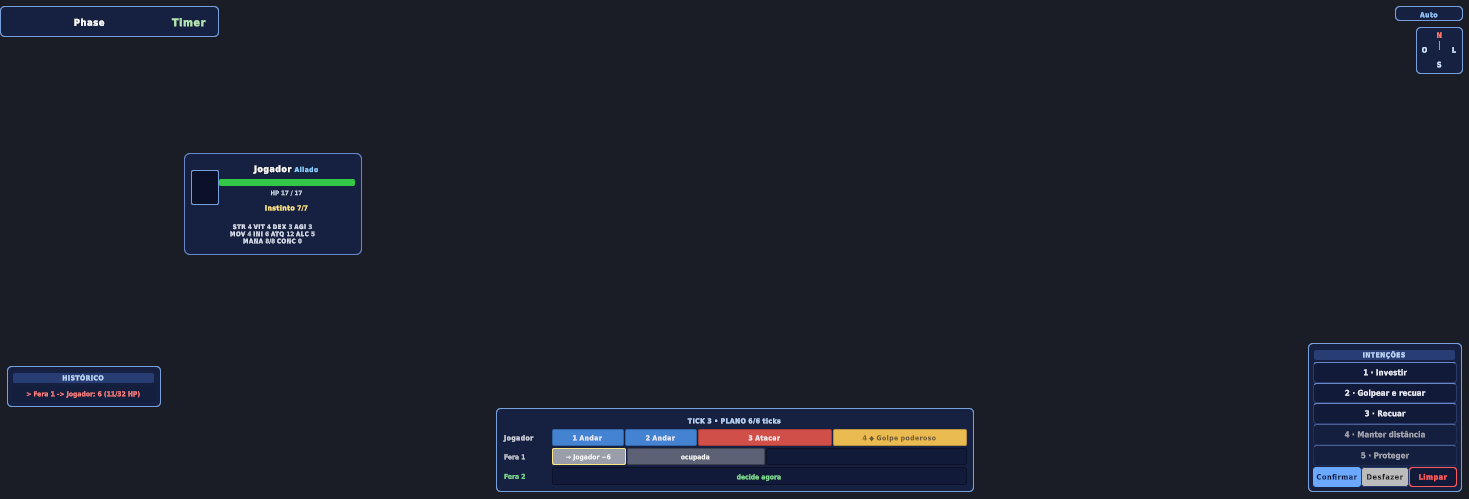
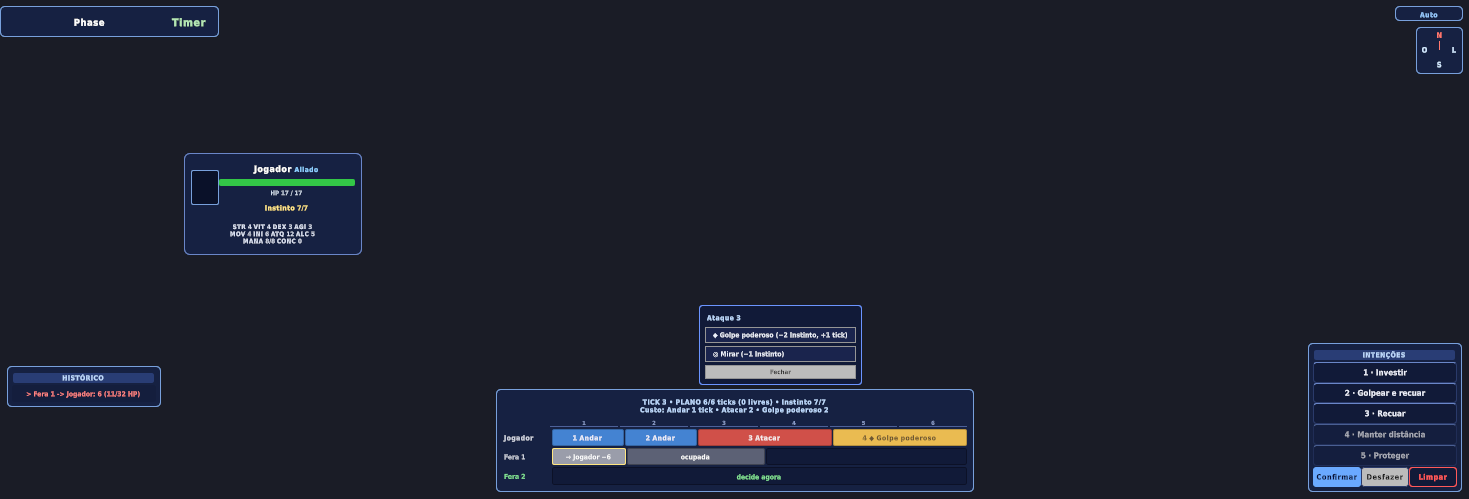
feat(hud): incrementar clicando no bloco de ataque; capacidade da fila explícita
- clicar num bloco de ataque do plano abre um menu com Golpe poderoso e Mirar
  (liga/desliga, com custo em Instinto e ticks); sem tick livre ou sem
  Instinto, a barra explica o motivo
- na janela entre ticks, o bloco do ataque seguinte fica clicável com o mesmo
  menu (os pedidos seguem o mesmo caminho em buffer pela rede)
- cabeçalho: PLANO n/6 ticks (x livres), Instinto atual e o custo de cada
  ação; régua 1..6 sobre as faixas; espaço livre aparece como '+ n livres'

Changed region(s): [[0.337, 0.6313, 0.6739, 0.8717]]

diff --git a/Assets/Scripts/BattleHUD.cs b/Assets/Scripts/BattleHUD.cs
@@ -475,6 +475,85 @@ namespace PangeaSkirmish
         private static readonly System.Text.RegularExpressions.Regex RichTag =
             new System.Text.RegularExpressions.Regex("<[^>]+>");
 
+        private string _headBase, _headCosts, _planNote; private float _planNoteUntil;
+        private void RefreshHeader()
+        {
+            if (_ticksRowsHeader == null) return;
+            string t = _headBase ?? "";
+            if (!string.IsNullOrEmpty(_headCosts)) t += "\n" + _headCosts;
+            bool note = !string.IsNullOrEmpty(_planNote) && Time.unscaledTime < _planNoteUntil;
+            if (note) t += "\n" + _planNote;
+            _ticksRowsHeader.text = t;
+            _ticksRowsHeader.style.color = note ? new Color(1f, 0.82f, 0.45f) : new Color(0.74f, 0.85f, 1f);
+        }
+
+        /// <summary>Aviso curto no cabeçalho da barra (ex.: sem tick livre para o incremento).</summary>
+        public void ShowPlanNote(string text)
+        {
+            _planNote = text; _planNoteUntil = Time.unscaledTime + 3f;
+            RefreshHeader();
+        }
+
+        // ── Incremento clicando nos blocos de ataque (plano e janela entre ticks) ──
+        public Action<int, int> OnIncrementPick;           // (índice no plano, tipo: 0 golpe poderoso, 1 mirar)
+        private Unit _windowUnit; private Action<int> _windowPick;
+        private VisualElement _incPopup;
+
+        /// <summary>Abre/fecha o modo "janela entre ticks": o bloco do ataque seguinte vira clicável.</summary>
+        public void SetIncrementWindow(Unit u, Action<int> onPick)
+        {
+            _windowUnit = u; _windowPick = onPick;
+            CloseIncrementPopup();
+            RebuildTickRows();
+        }
+
+        private void CloseIncrementPopup()
+        {
+            if (_incPopup != null) { _incPopup.RemoveFromHierarchy(); _incPopup = null; }
+        }
+
+        private void OpenIncrementPopup(VisualElement anchor, string title, bool powerOn, bool aimOn,
+                                        bool powerEnabled, bool aimEnabled, Action<int> pick)
+        {
+            CloseIncrementPopup();
+            if (_ticksBar == null) return;
+            var pop = new VisualElement();
+            var ps = pop.style;
+            ps.position = Position.Absolute;
+            ps.backgroundColor = new Color(0.07f, 0.10f, 0.22f, 0.98f);
+            ps.paddingLeft = ps.paddingRight = 8; ps.paddingTop = ps.paddingBottom = 6;
+            ps.borderTopLeftRadius = ps.borderTopRightRadius = ps.borderBottomLeftRadius = ps.borderBottomRightRadius = 6;
+            ps.borderTopWidth = ps.borderBottomWidth = ps.borderLeftWidth = ps.borderRightWidth = 1;
+            var bc = new Color(0.42f, 0.58f, 1f);
+            ps.borderTopColor = ps.borderBottomColor = ps.borderLeftColor = ps.borderRightColor = bc;
+            var head = new Label(title); head.style.fontSize = 11; head.style.color = new Color(0.74f, 0.85f, 1f);
+            head.style.unityFontStyleAndWeight = FontStyle.Bold; head.style.marginBottom = 4;
+            pop.Add(head);
+
+            VisualElement Opt(int kind, string text, bool on, bool enabled)
+            {
+                var b = new Button(() => { AudioManager.I?.Play(AudioManager.I.sfxUIClick); CloseIncrementPopup(); pick?.Invoke(kind); }) { text = text };
+                b.style.marginLeft = b.style.marginRight = 0; b.style.marginBottom = 3; b.style.height = 26;
+                b.style.fontSize = 11; b.style.unityTextAlign = TextAnchor.MiddleLeft;
+                b.style.backgroundColor = on ? new Color(1f, 0.80f, 0.33f) : new Color(0.10f, 0.14f, 0.30f);
+                b.style.color = on ? new Color(0.06f, 0.08f, 0.16f) : new Color(0.93f, 0.95f, 1f);
+                b.SetEnabled(enabled);
+                return b;
+            }
+            pop.Add(Opt(0, $"{(powerOn ? "✔ " : "")}◆ Golpe poderoso  (−{Tuning.Get().instinctPowerStrike} Instinto, +{Tuning.Get().ticksPowerStrikeExtra} tick)", powerOn, powerEnabled));
+            pop.Add(Opt(1, $"{(aimOn ? "✔ " : "")}◎ Mirar  (−{Tuning.Get().instinctAim} Instinto)", aimOn, aimEnabled));
+            var close = new Button(CloseIncrementPopup) { text = "Fechar" };
+            close.style.marginLeft = close.style.marginRight = 0; close.style.height = 22; close.style.fontSize = 10;
+            pop.Add(close);
+
+            _ticksBar.Add(pop);
+            // Acima da barra, alinhado ao bloco clicado.
+            var ab = anchor.worldBound; var bb = _ticksBar.worldBound;
+            ps.left = Mathf.Max(0f, ab.x - bb.x);
+            ps.bottom = bb.height + 4;
+            _incPopup = pop;
+        }
+
         public void UpdateTimeline(int tick, List<Unit> units, System.Func<Unit, bool> isMine)
         {
             _tlTick = tick; _tlUnits = units; _tlIsMine = isMine;
@@ -511,14 +590,39 @@ namespace PangeaSkirmish
             Unit planUnit = _lastUnit;
             bool planning = _planSeq != null && _planSeq.Count > 0 && planUnit != null;
             int planTotal = 0;
-            string head = $"TICK {_tlTick}";
             if (planning)
             {
                 for (int i = 0; i < _planSeq.Count; i++)
                     planTotal += TickRules.Duration(planUnit, _planSeq[i], _planSched != null && i < _planSched.Count && _planSched[i].IsBonus);
-                head += $"  •  PLANO {Mathf.Min(planTotal, maxTicks)}/{maxTicks} ticks";
             }
-            _ticksRowsHeader.text = head;
+            _headBase = $"TICK {_tlTick}";
+            if (planning)
+            {
+                int free = Mathf.Max(0, maxTicks - planTotal);
+                _headBase += $"  •  PLANO {Mathf.Min(planTotal, maxTicks)}/{maxTicks} ticks  ({free} livre{(free == 1 ? "" : "s")})" +
+                             $"  •  Instinto {planUnit.remainingBAP}/{planUnit.stats.MaxInstinct}";
+                _headCosts = $"Custo: Andar {TickRules.Duration(planUnit, ActionType.Move, false)} tick  •  " +
+                             $"Atacar {TickRules.Duration(planUnit, ActionType.Attack, false)}  •  Golpe poderoso {TickRules.Duration(planUnit, ActionType.Attack, true)}";
+            }
+            else _headCosts = null;
+            RefreshHeader();
+            // Régua de ticks: mostra a capacidade da fila (1..N) alinhada com as faixas.
+            var ruler = new VisualElement { pickingMode = PickingMode.Ignore };
+            ruler.style.flexDirection = FlexDirection.Row; ruler.style.marginBottom = 2;
+            var rpad = new VisualElement { pickingMode = PickingMode.Ignore }; rpad.style.width = 78; ruler.Add(rpad);
+            var rtrack = new VisualElement { pickingMode = PickingMode.Ignore };
+            rtrack.style.flexDirection = FlexDirection.Row; rtrack.style.flexGrow = 1;
+            for (int k = 1; k <= maxTicks; k++)
+            {
+                var rl = new Label(k.ToString()) { pickingMode = PickingMode.Ignore };
+                rl.style.flexGrow = 1; rl.style.flexBasis = 0; rl.style.fontSize = 9; rl.style.height = 11;
+                rl.style.unityTextAlign = TextAnchor.MiddleCenter; rl.style.marginRight = 2;
+                rl.style.color = new Color(0.55f, 0.62f, 0.80f);
+                rl.style.borderBottomWidth = 1; rl.style.borderBottomColor = new Color(0.30f, 0.38f, 0.60f);
+                rtrack.Add(rl);
+            }
+            ruler.Add(rtrack);
+            _ticksRows.Add(ruler);
 
             foreach (var u in _tlUnits)
             {
@@ -553,7 +657,19 @@ namespace PangeaSkirmish
                         var seg = MakeSegment(Mathf.Min(d, maxTicks - used), SegColor(_planSeq[i], bonus),
                                               $"{idx + 1} {(bonus ? "◆ " : "")}{ActionName(_planSeq[i], bonus)}", true);
                         seg.pickingMode = PickingMode.Position;
-                        seg.RegisterCallback<ClickEvent>(_ => OnSeqChipClicked(idx));
+                        if (_planSeq[i] == ActionType.Attack)
+                        {
+                            bool aimOn = _planSched != null && i < _planSched.Count && _planSched[i].IsAimed;
+                            bool pw = bonus, am = aimOn;
+                            var segRef = seg;
+                            seg.RegisterCallback<ClickEvent>(_ =>
+                            {
+                                if (_incPopup != null) { CloseIncrementPopup(); return; }
+                                _selectedSeqIndex = idx;
+                                OpenIncrementPopup(segRef, $"Ataque {idx + 1}", pw, am, true, true, k => OnIncrementPick?.Invoke(idx, k));
+                            });
+                        }
+                        else seg.RegisterCallback<ClickEvent>(_ => OnSeqChipClicked(idx));
                         seg.style.opacity = idx == _selectedSeqIndex ? 1f : 0.82f;
                         track.Add(seg); _seqChips.Add(seg);
                         used += d;
@@ -568,6 +684,20 @@ namespace PangeaSkirmish
                         string label = mine ? ActionName(q.Type, q.IsBonus) : "ocupada";
                         var seg = MakeSegment(d, mine ? SegColor(q.Type, q.IsBonus) : TlWait, label, mine);
                         track.Add(seg);
+                        if (firstSeg && mine && u == _windowUnit && q.Type == ActionType.Attack)
+                        {
+                            seg.pickingMode = PickingMode.Position;
+                            var segRef = seg; var wu = u;
+                            seg.style.borderTopColor = seg.style.borderBottomColor = seg.style.borderLeftColor = seg.style.borderRightColor = new Color(1f, 0.9f, 0.5f);
+                            ((Label)seg.ElementAt(0)).text = label + "  ▾";
+                            seg.RegisterCallback<ClickEvent>(_ =>
+                            {
+                                if (_incPopup != null) { CloseIncrementPopup(); return; }
+                                OpenIncrementPopup(segRef, "Incrementar o próximo ataque", wu.queue.Count > 0 && wu.queue[0].IsBonus,
+                                    wu.queue.Count > 0 && wu.queue[0].IsAimed, wu.CanIncrementNext(0), wu.CanIncrementNext(1),
+                                    k => _windowPick?.Invoke(k));
+                            });
+                        }
                         if (firstSeg)
                         {
                             _rowRefs[u] = new RowRef { seg = seg, label = (Label)seg.ElementAt(0), defaultText = label,
@@ -580,7 +710,10 @@ namespace PangeaSkirmish
 
                 if (used < maxTicks)
                 {
-                    var rest = MakeSegment(maxTicks - used, TlEmpty, (!u.IsBusy && !isPlanRow) ? "decide agora" : "", false);
+                    string restText = (!u.IsBusy && !isPlanRow) ? "decide agora"
+                                    : isPlanRow ? $"+ {maxTicks - used} livre{(maxTicks - used == 1 ? "" : "s")}" : "";
+                    var rest = MakeSegment(maxTicks - used, TlEmpty, restText, false);
+                    if (isPlanRow) ((Label)rest.ElementAt(0)).style.color = new Color(0.55f, 0.62f, 0.80f);
                     if (!u.IsBusy && !isPlanRow)
                     {
                         var l = (Label)rest.ElementAt(0);
@@ -656,6 +789,7 @@ namespace PangeaSkirmish
         private void FadeRowFlashes()
         {
             foreach (var kv in _rowRefs) ApplyRowEvent(kv.Key);
+            if (!string.IsNullOrEmpty(_planNote)) RefreshHeader();
         }
 
         private static string ActionLetter(ActionType t) =>

diff --git a/Assets/Scripts/PlanningController.cs b/Assets/Scripts/PlanningController.cs
@@ -99,6 +99,11 @@ namespace PangeaSkirmish
             _hud.BindUndo(OnUndoClick);
             _hud.BindClear(OnClearClick);
             _hud.OnSeqChipToggled = OnSeqChipToggled;
+            _hud.OnIncrementPick = (idx, kind) =>
+            {
+                _hud.SelectSeqIndex(idx);
+                if (kind == 0) OnPowerStrikeClick(); else OnAimClick();
+            };
             // Painel de INTENÇÕES (reformulação): botões 1-3 armam como as teclas 1/2/3.
             _hud.OnIntentSelected = slot =>
             {
@@ -227,6 +232,7 @@ namespace PangeaSkirmish
                 if (_controlled.remainingBAP < Tuning.Get().instinctPowerStrike)
                 {
                     _hud.LogAction($"<color=#888888>x</color> {_controlled.unitName}: Instinto insuficiente para Golpe Poderoso", _controlled);
+                    _hud.ShowPlanNote("Instinto insuficiente para o Golpe poderoso");
                     return;
                 }
                 int extraTicks = TickRules.Duration(_controlled, ActionType.Attack, true)
@@ -234,6 +240,7 @@ namespace PangeaSkirmish
                 if (extraTicks > _controlled.remainingAP)
                 {
                     _hud.LogAction($"<color=#888888>x</color> {_controlled.unitName}: sem tempo na fila para Golpe Poderoso", _controlled);
+                    _hud.ShowPlanNote("Sem tick livre para o Golpe poderoso (+1 tick): desfaça uma ação ou use Mirar");
                     return;
                 }
                 _controlled.actionSequence[idx] = new ScheduledAction
@@ -455,9 +462,9 @@ namespace PangeaSkirmish
             else
             {
                 // Aplicar mira: gasta PAB
-                if (_controlled.remainingBAP <= 0)
+                if (_controlled.remainingBAP < Tuning.Get().instinctAim)
                 {
-                    Debug.Log("PAB insuficiente para Mirar");
+                    _hud.ShowPlanNote("Instinto insuficiente para Mirar");
                     return;
                 }
                 _controlled.actionSequence[idx] = new ScheduledAction

diff --git a/Assets/Scripts/RoundManager.cs b/Assets/Scripts/RoundManager.cs
@@ -768,8 +768,17 @@ namespace PangeaSkirmish
             foreach (var u in _units) if (!u.IsDead && IsLocalUnit(u) && (u.CanIncrementNext(0) || u.CanIncrementNext(1))) { mine = u; break; }
             float shown = 0f;
             if (mine != null)
+                _hud.SetIncrementWindow(mine, k =>
+                {
+                    if (mine.CanIncrementNext(k))
+                    {
+                        sync.SubmitIncrementServerRpc(UnitRegistry.GetId(mine), k);
+                        _hud.LogAction($"◆ {mine.unitName}: {(k == 0 ? "golpe poderoso" : "mira")} pedido", mine);
+                    }
+                });
+            if (mine != null)
                 _hud.ShowIntentBand($"⚡ INCREMENTAR: <b>{mine.unitName}</b>",
-                    $"[1] Golpe poderoso (−{Unit.IncrementCost(0)} Instinto, +1 tick)   [2] Mirar (−{Unit.IncrementCost(1)})");
+                    $"clique no bloco do ataque  •  [1] Golpe poderoso (−{Unit.IncrementCost(0)} Instinto, +1 tick)   [2] Mirar (−{Unit.IncrementCost(1)})");
 
             float guard = seconds + 6f;     // trava de segurança caso o fechamento nunca chegue
             while (_windowClosedSeq < seq && guard > 0f)
@@ -787,7 +796,7 @@ namespace PangeaSkirmish
                 }
                 yield return null;
             }
-            if (mine != null) _hud.HideIntentBand();
+            if (mine != null) { _hud.HideIntentBand(); _hud.SetIncrementWindow(null, null); }
 
             // Aplica, na ordem de chegada (igual em todas as máquinas), o que valeu para esta janela.
             for (int i = 0; i < _pendingIncrements.Count; i++)

diff --git a/Assets/Tests/PlayMode/TickBarShot.cs b/Assets/Tests/PlayMode/TickBarShot.cs
@@ -6,6 +6,7 @@ using PangeaSkirmish;
 using PangeaSkirmish.UI;
 using UnityEngine;
 using UnityEngine.TestTools;
+using UnityEngine.UIElements;
 
 /// <summary>Renderiza a HUD de batalha com uma fila e eventos e salva Temp/tickbar.png.</summary>
 public class TickBarShot
@@ -58,7 +59,14 @@ public class TickBarShot
                 new ScheduledAction { Type = ActionType.Move }, new ScheduledAction { Type = ActionType.Move },
                 new ScheduledAction { Type = ActionType.Attack }, new ScheduledAction { Type = ActionType.Attack, IsBonus = true } });
         hud.LogAction("> Fera 1 -> Jogador: 6  (11/32 HP)", beast);
-        for (int i = 0; i < 10; i++) yield return null;
+        for (int i = 0; i < 5; i++) yield return null;
+        // Clica no bloco "3 Atacar" do plano: deve abrir o menu de incremento.
+        var root = hud.GetComponent<UIDocument>().rootVisualElement;
+        VisualElement atk = null;
+        root.Query<Label>().ForEach(l => { if (atk == null && l.text.Contains("Atacar") && l.text.StartsWith("3")) atk = l.parent; });
+        Assert.IsNotNull(atk, "bloco de ataque do plano não encontrado");
+        using (var e = ClickEvent.GetPooled()) { e.target = atk; atk.SendEvent(e); }
+        for (int i = 0; i < 5; i++) yield return null;
         yield return new WaitForEndOfFrame();
 
         var tex = ScreenCapture.CaptureScreenshotAsTexture();
